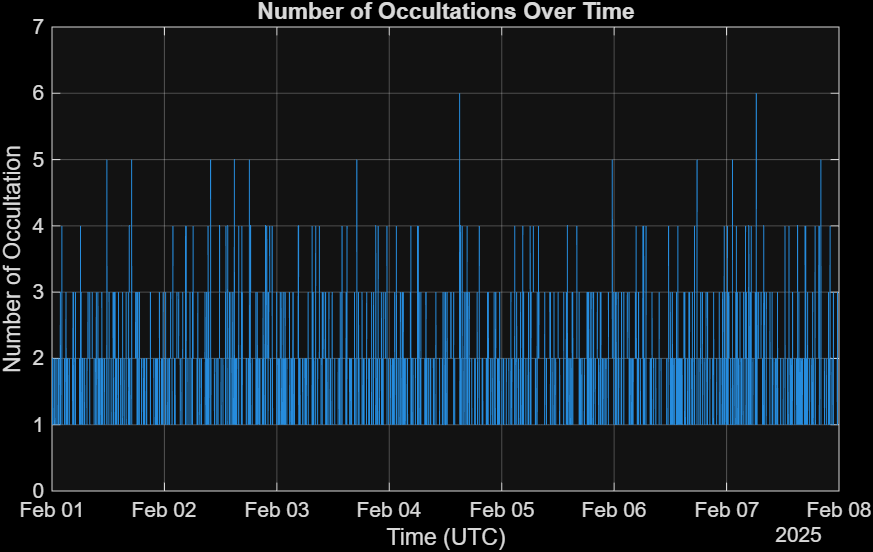
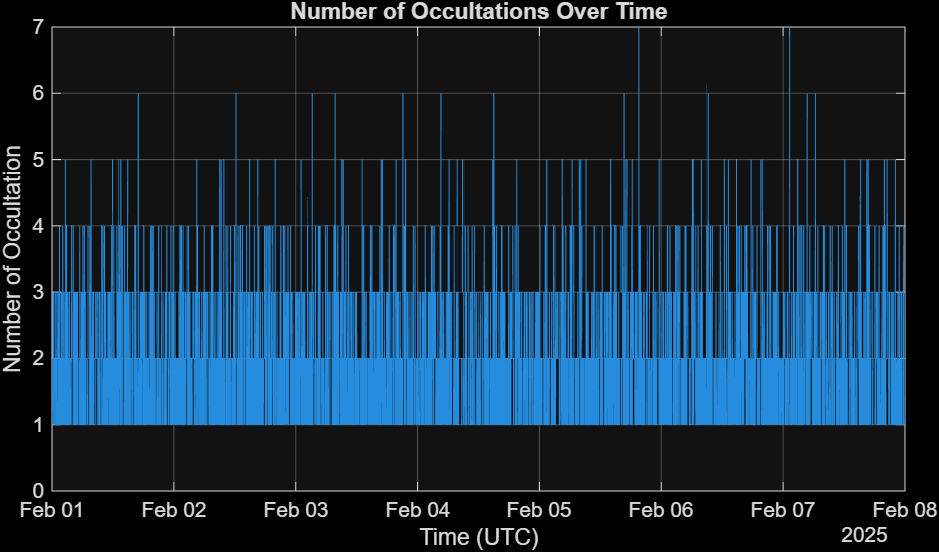
Fixed occultations?

diff --git a/Code/Setup.m b/Code/Setup.m
@@ -1,3 +1,4 @@
+%% 
 clear
 close all;
 
@@ -18,7 +19,7 @@ trueAnomaly = 1.81165e-15;
 CtS = satellite(sc, semiMajorAxis, eccentricity, inclination, ...
     RAAN, argOfPeriapsis, trueAnomaly, Visual3DModel="NarrowBodyAirliner.glb");
 
-% Initialize constellations (3 things for each constellation)
+% Initialize constellations (2 things for each constellation)
 const1 = satellite(sc, "/MATLAB Drive/CtS/Orbit Sims/CTS-Orbit-MATLAB/XML/glo.xml");
 const2 = satellite(sc, "/MATLAB Drive/CtS/Orbit Sims/CTS-Orbit-MATLAB/XML/gps.xml");
 const3 = satellite(sc, "/MATLAB Drive/CtS/Orbit Sims/CTS-Orbit-MATLAB/XML/beidou.xml");
@@ -31,28 +32,22 @@ lon = dms2degrees([-114 17 28.1]);
 
 gs = groundStation(sc,"Name",name,"Latitude",lat, "Longitude", lon);
 
-% Conical sensor                               
-g = gimbal(CtS);    
-camSensor = conicalSensor(g, MaxViewAngle=100, MountingAngles=[0;-85;0]); % yaw, pitch, roll
-
-ac = access(camSensor, const1);
-ac2 = access(camSensor, const2);
-ac3 = access(camSensor, const3);
-ac4 = access(camSensor, const4);
+% Conical sensor   
+camSensor = conicalSensor(CtS, 'Name', "Antenna", MaxViewAngle=100, MountingAngles=[0;-85;0]); % yaw, pitch, roll
 
 % Visualize field of view of sensor
-%satelliteScenarioViewer(sc);               Uncomment to run sim
+%satelliteScenarioViewer(sc);               %Uncomment to run sim
 fieldOfView(camSensor);
 
 % Get number of accessed satellites in each sample time
-accCount = accessStatus(ac);
-accCount = [accCount; accessStatus(ac2)];
-accCount = [accCount; accessStatus(ac3)];
-accCount = [accCount; accessStatus(ac4)];
+accCount = accessStatus(access(camSensor, const1));
+accCount = [accCount; accessStatus(access(camSensor, const2))];
+accCount = [accCount; accessStatus(access(camSensor, const3))];
+accCount = [accCount; accessStatus(access(camSensor, const4))];
 
-% Collapse into one row by adding (Commented out ONLY for testing Error.m)
-accCount = sum(accCount, 1);
-accCount = transpose(accCount);
+% Collapse into one row by adding (Commented out ONLY for testing Error.m & Occulation.m)
+%accCount = sum(accCount, 1);
+%accCount = transpose(accCount);
 
 % All sample time intervals for sim
 timeIntervals = startTime : seconds(sampleTime) : stopTime;

diff --git a/Code/Occultation.m b/Code/Occultation.m
@@ -1,22 +1,39 @@
 % Make sure you have Setup.m in the same folder
 Setup;
 
-countSize = numel(accCount);
-occultations = NaN(countSize, 1);
+% 360 view ----------------
+view360 = conicalSensor([const1 const2 const3 const4], 'Name', "360View", MaxViewAngle=179); % yaw, pitch, roll
 
-for i = 1:countSize
-    current = accCount(i);
+ac = access(view360, CtS);
 
-    % Prevents error at the end
-    if (i == countSize)
-        continue
-    end
+accCount360 = accessStatus(ac);
+% --------------------------
 
-    % Check if current count is atleast 5 and next count decreased
-    % (setting/occulting)
-    if (current >= 5 && accCount(i + 1) < current)
-        % Get number of satellites occulting
-        occultations(i, 1) = current - accCount(i + 1);
+accessSize = size(accCount); % [rows cols]
+occultations = NaN(accessSize(1,2), 1);
+
+% Iterate through each element
+for i = 1:accessSize(1,1)
+    for j = 1:accessSize(1,2)
+        currentCount = sum(accCount(:,j));
+
+        % Prevents error at the end
+        if (j == accessSize(1,2))
+            continue
+        end
+    
+        % Check if current count is atleast 5 and next count decreased for
+        % both satellite view and 360 view
+        if (currentCount >= 5 && accCount(i,j) == 1 && accCount(i, j + 1) == 0 && ...
+                accCount360(i, j) == 1 && accCount360(i, j + 1) == 0)
+
+            % Add to number of occultations
+            if isnan(occultations(j, 1))
+                occultations(j, 1) = 1;
+            else
+                occultations(j, 1) = occultations(j, 1) + 1;
+            end
+        end
     end
 end
 
@@ -31,8 +48,8 @@ grid on;
 % Remove NaN values
 occultations = occultations(~isnan(occultations));
 
-percentOccults = numel(occultations) / countSize;
+percentOccults = numel(occultations) / accessSize(1,2);
 
-clearvars -except percentOccults
+%clearvars -except percentOccults
 
 
